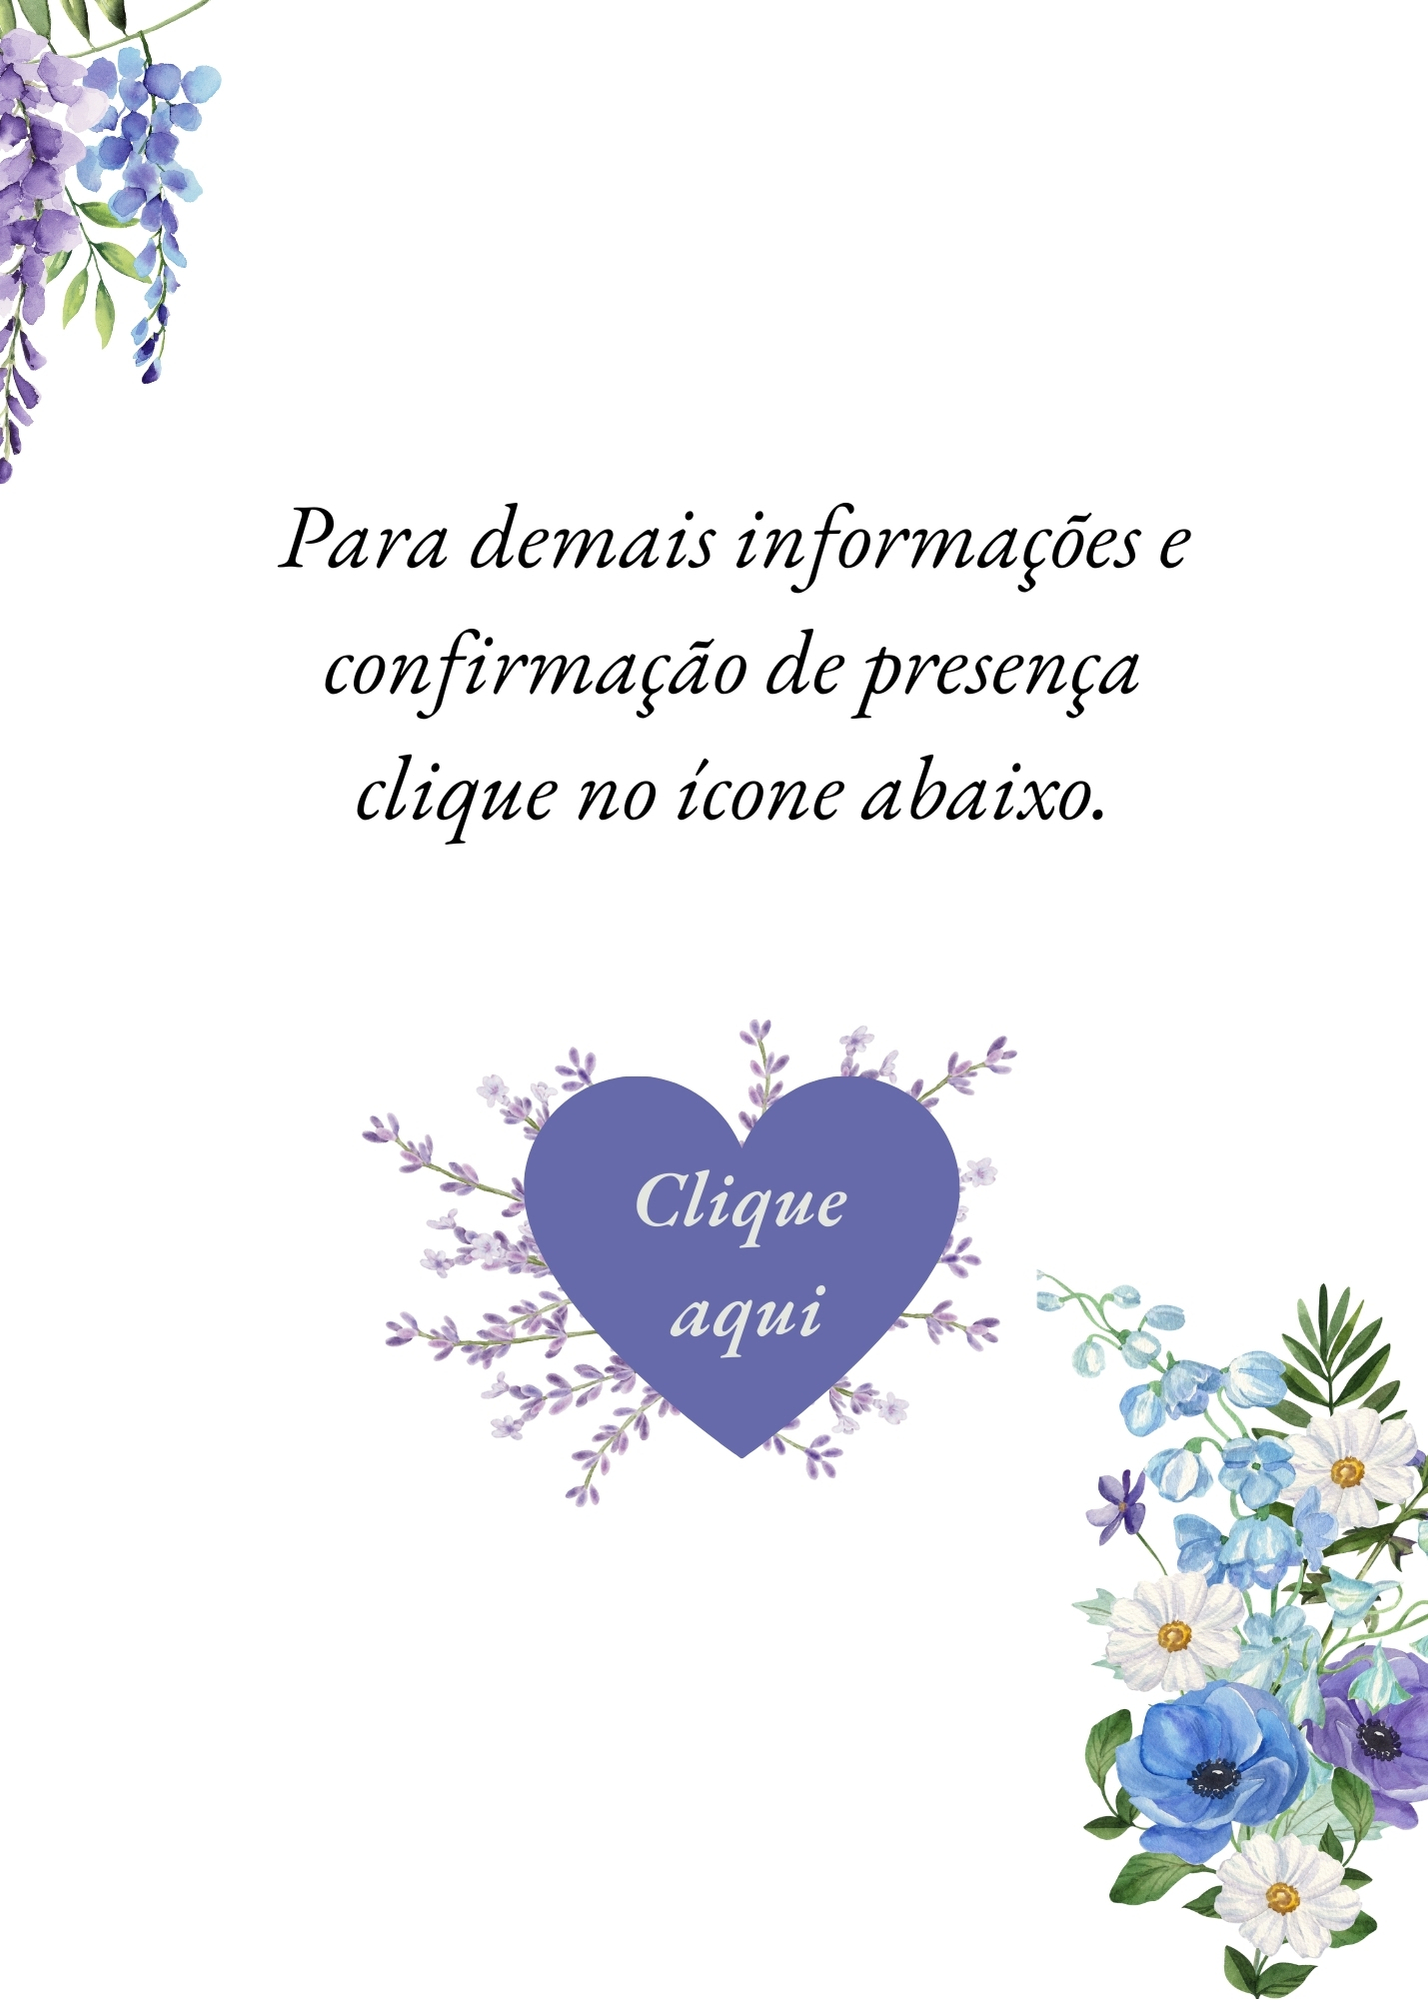
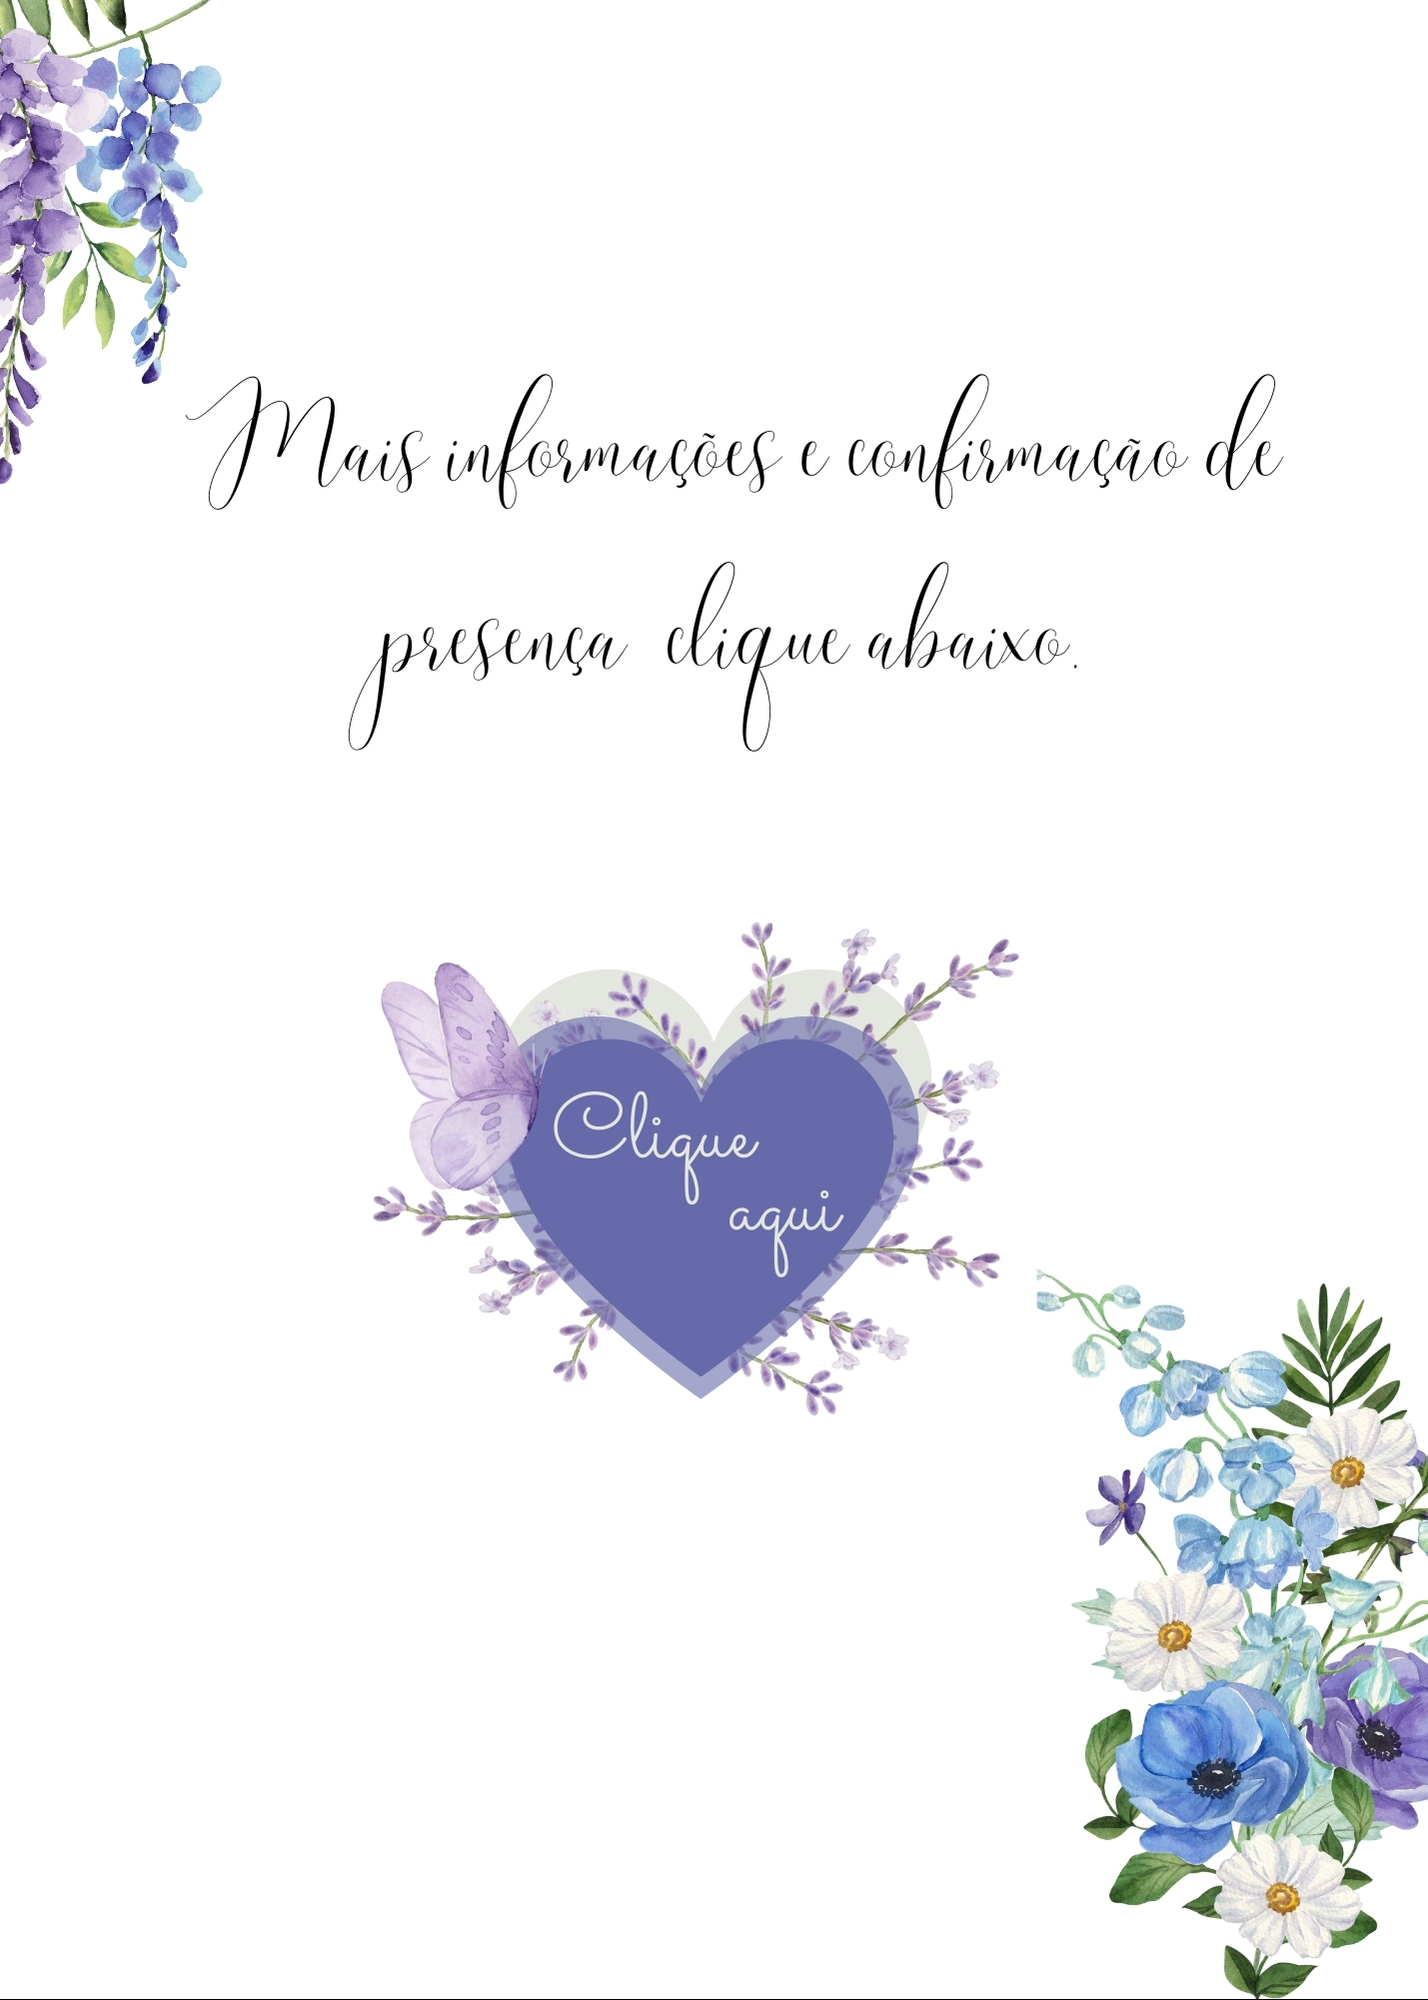
adjusted link to redirect and update last image also added new sizes and spaces to button

Changed region(s): [[0.2465, 0.465, 0.7087, 0.775], [0.1849, 0.186, 0.8936, 0.434], [0.1541, 0.186, 0.1849, 0.248]]

diff --git a/src/styles.tsx b/src/styles.tsx
@@ -14,18 +14,19 @@ export const ButtonInImage = styled.div<{isConfirmation?: boolean}>`
     top: 50%;
     left: 50%;
     transform: translate(-50%, -50%);
+    border: 2px solid red;
 
-    width: ${({ isConfirmation }) => isConfirmation ? '200px' : '90px'};
-    height: ${({ isConfirmation }) => isConfirmation ? '130px' : '50px'};
-    margin-left: 5px;
-    margin-top: ${({ isConfirmation }) => isConfirmation ? '80px' : '0px'};
+    width: ${({ isConfirmation }) => isConfirmation ? '150px' : '90px'};
+    height: ${({ isConfirmation }) => isConfirmation ? '100px' : '50px'};
+    margin-left: ${({ isConfirmation }) => isConfirmation ? '0px' : '5px'};
+    margin-top: ${({ isConfirmation }) => isConfirmation ? '50px' : '0px'};
 
     z-index: 2;
 
     @media (min-width: 768px) {
-        width: ${({ isConfirmation }) => isConfirmation ? '700px' : '420px'};
-        height: ${({ isConfirmation }) => isConfirmation ? '500px' : '220px'};
-        margin-left: 30px;
+        width: ${({ isConfirmation }) => isConfirmation ? '900px' : '420px'};
+        height: ${({ isConfirmation }) => isConfirmation ? '650px' : '220px'};
+        margin-left: ${({ isConfirmation }) => isConfirmation ? '-50px' : '30px'};
         margin-top: ${({ isConfirmation }) => isConfirmation ? '350px' : '10px'};
     }
 `;

diff --git a/src/App.tsx b/src/App.tsx
@@ -19,7 +19,7 @@ function App() {
   }
 
   function onRedirectToSite() {
-    window.location.href = "https://google.com";
+    window.location.href = "https://www.pietroecaroline.com.br/";
   }
 
   return (
